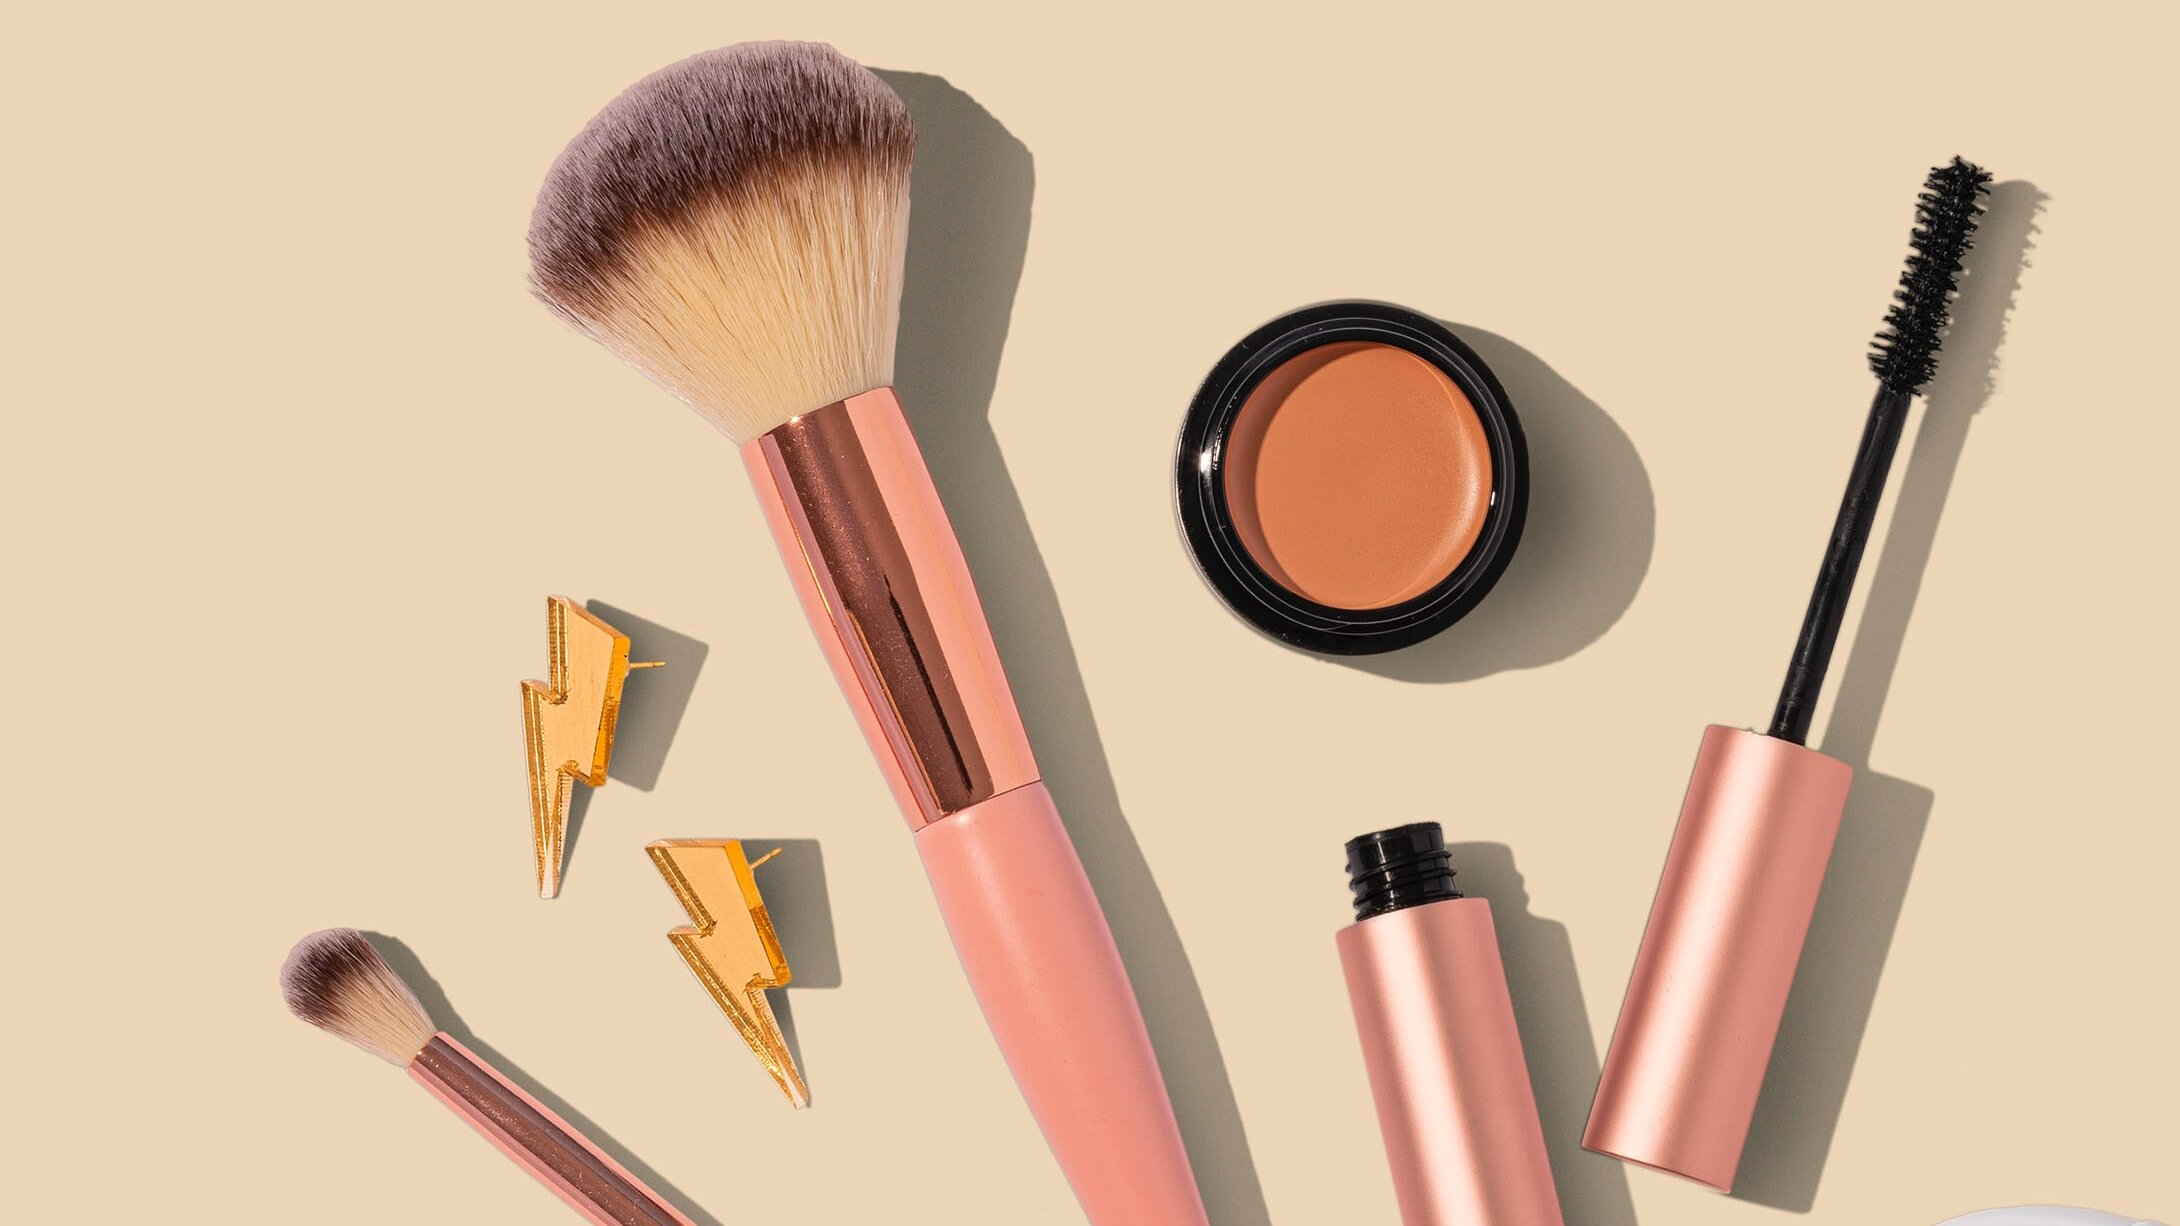
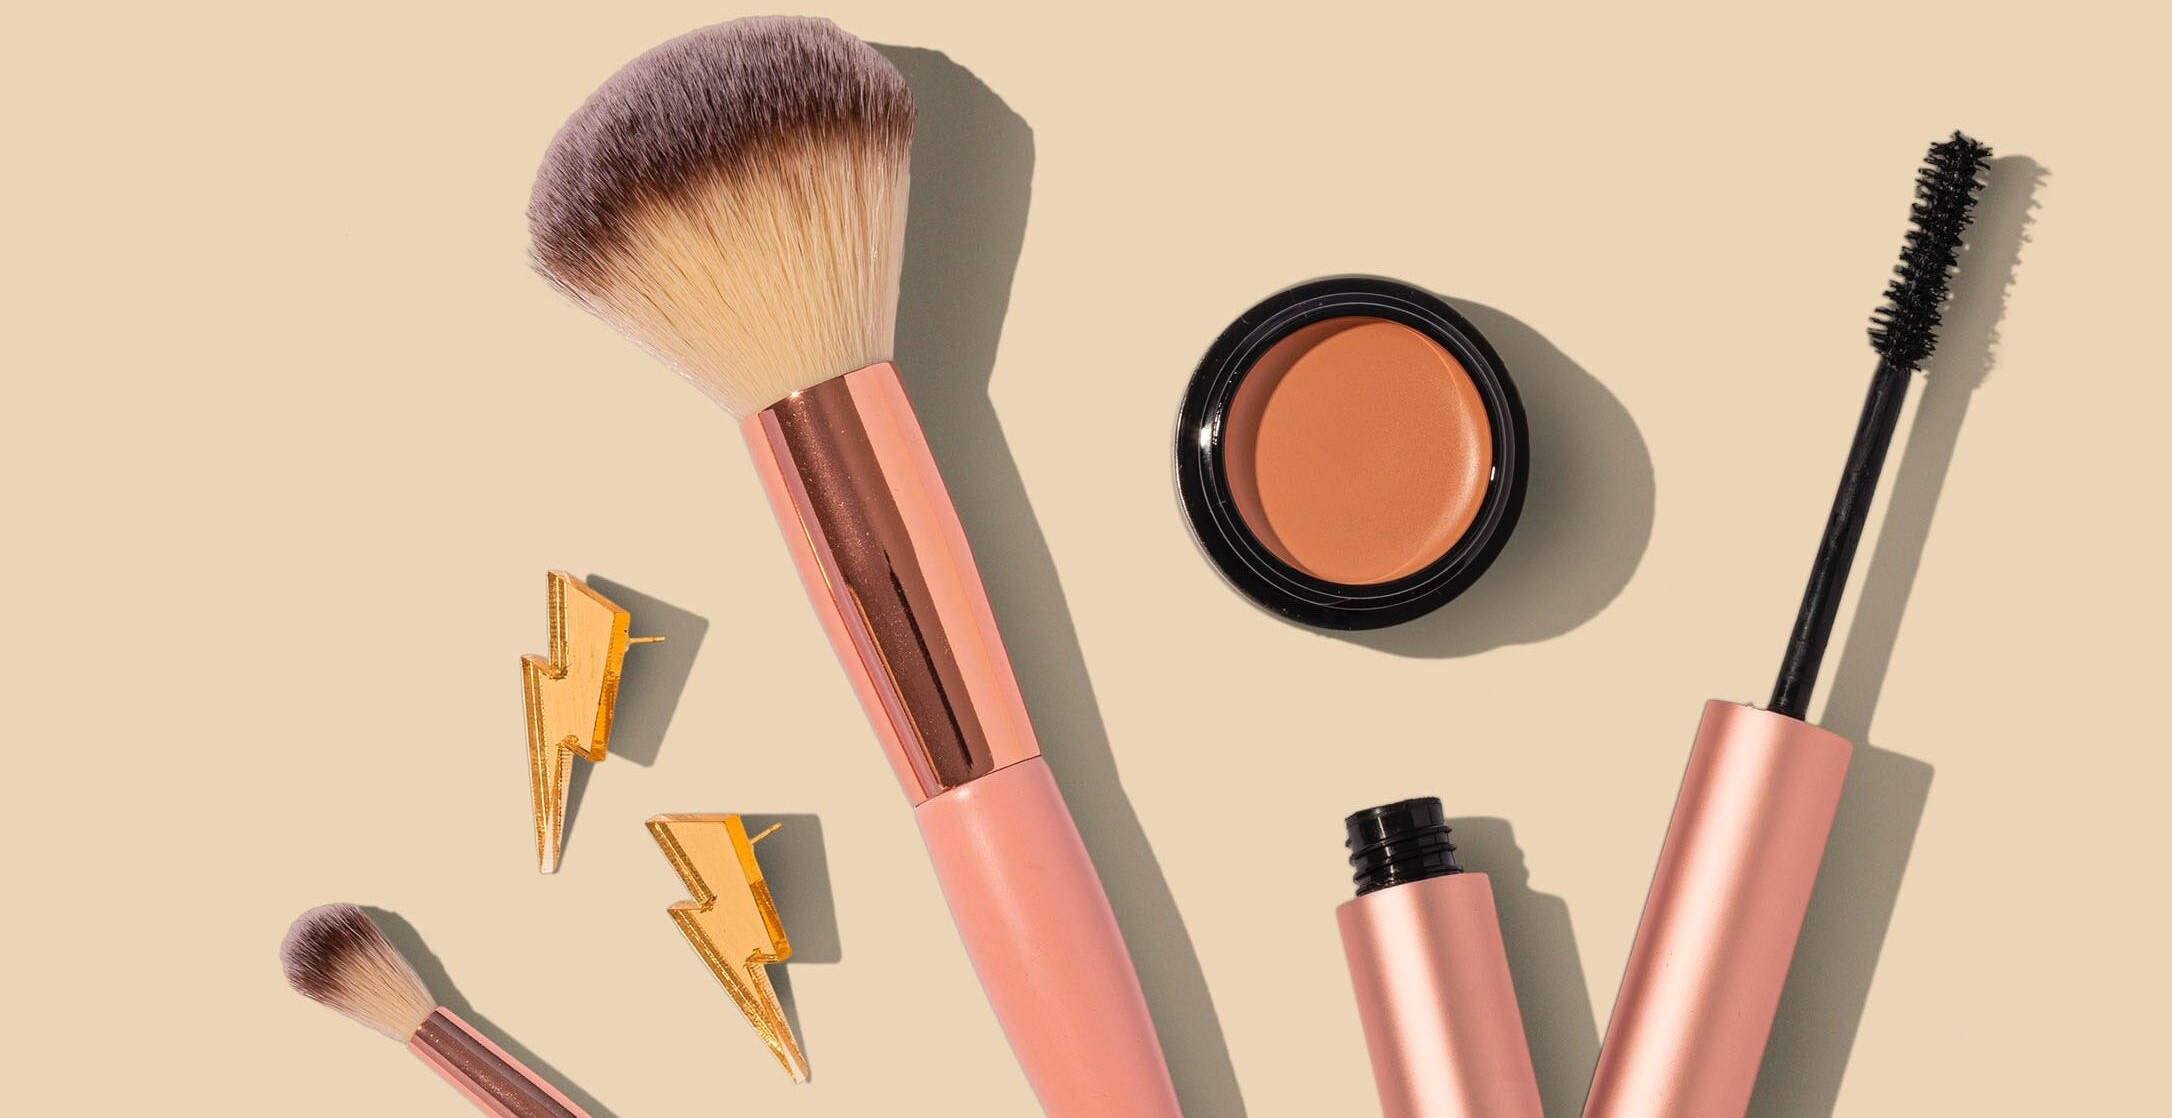
portfolio E-commerce Project added

diff --git a/src/Pages/Projects.js b/src/Pages/Projects.js
@@ -26,7 +26,7 @@ function Projects() {
           </Col>
           <Col md={6} className="project-card">
             <ProjectCards
-              imgPath="https://github.com/daniyal4engg/Daniyal-Portfolio/blob/master/src/project_screenshots/makeup5.jpg?raw=true"
+              imgPath="https://github.com/daniyal4engg/Daniyal-Portfolio/blob/master/src/project_screenshots/makeup10.jpg?raw=true"
               title="BobbiBrownCosmetics E-Commerce Web App"
               description="An E-Commerce website that allows people to buy makeup products & skincare essentials to enhance natural beauty at a brick-and-mortar location."
               tech="Tech-Stacks"
